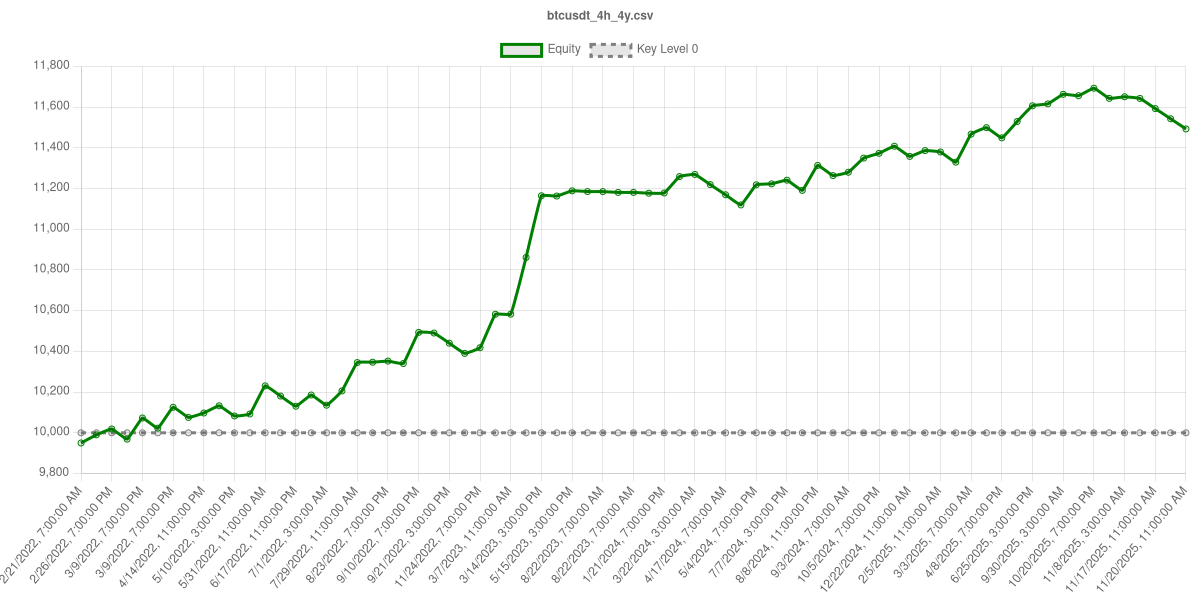
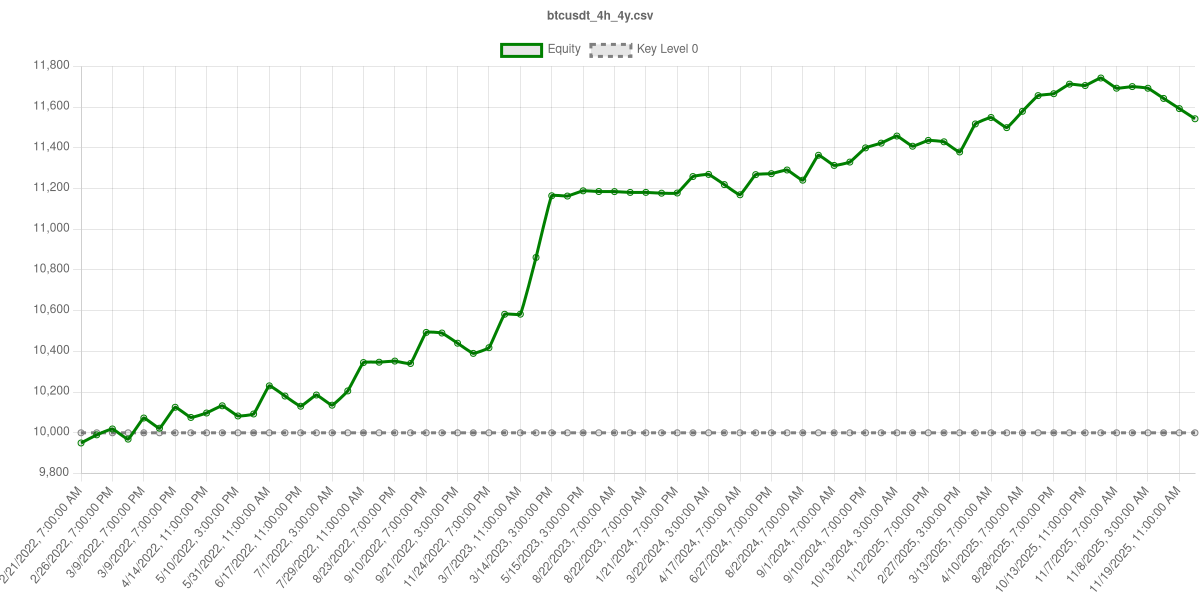
update

diff --git a/backend/service-backtest/src/rules/4.ts b/backend/service-backtest/src/rules/4.ts
@@ -54,7 +54,7 @@ export async function R4_(
 
 export function countEMATouches(candles: Candle[], ema: any, periods = 4) {
   const realTolerance = 0.0015; // 0.15%
-  const nearTolerance = 0.003; // 0.30%
+  const nearTolerance = 0.005; // 0.30%
 
   let touchCount = 0; 
   let nearTouchCount = 0; 
